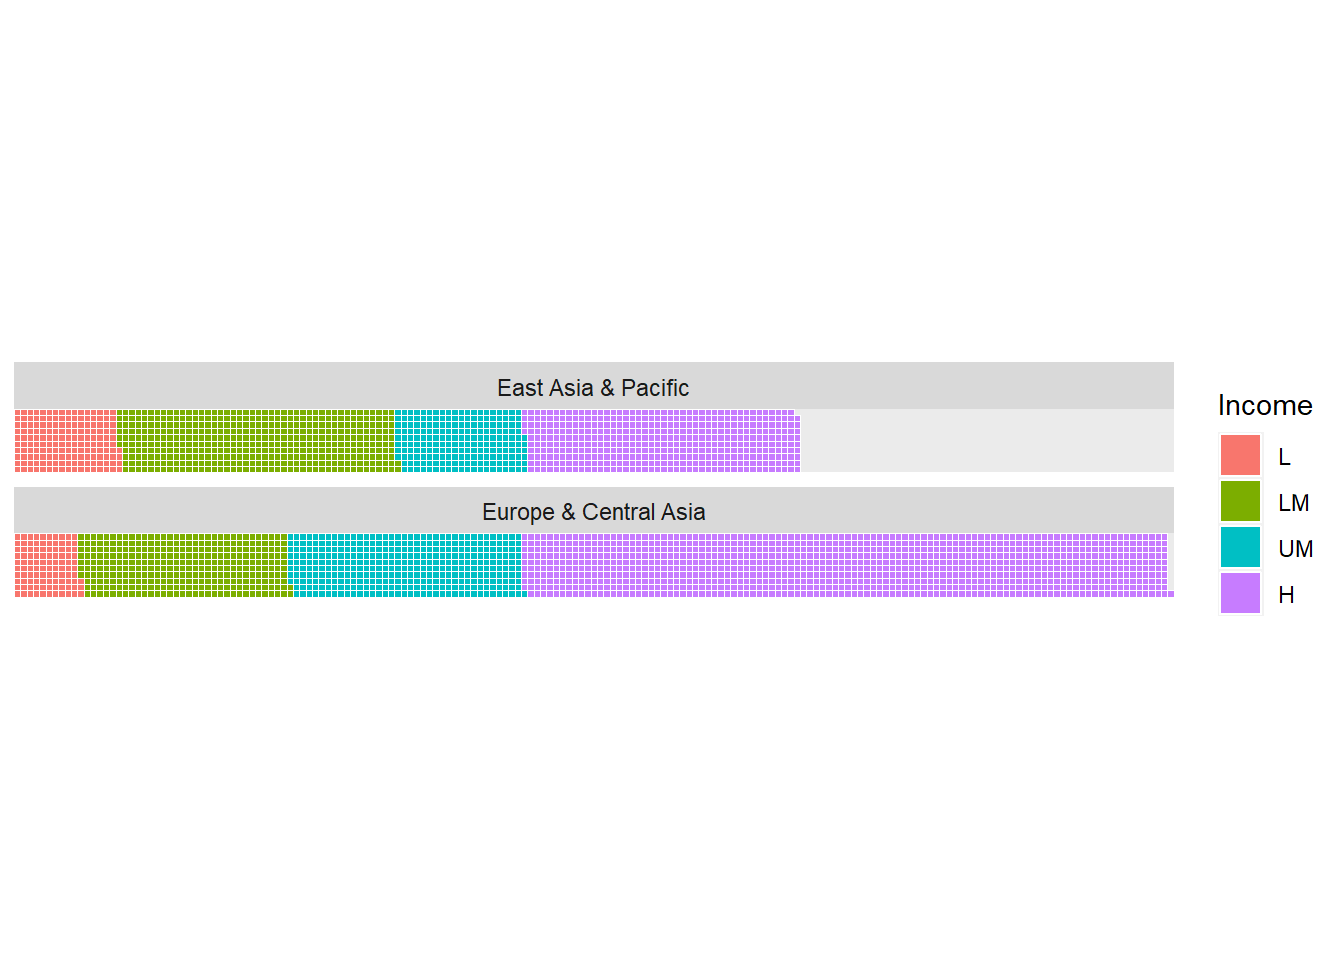
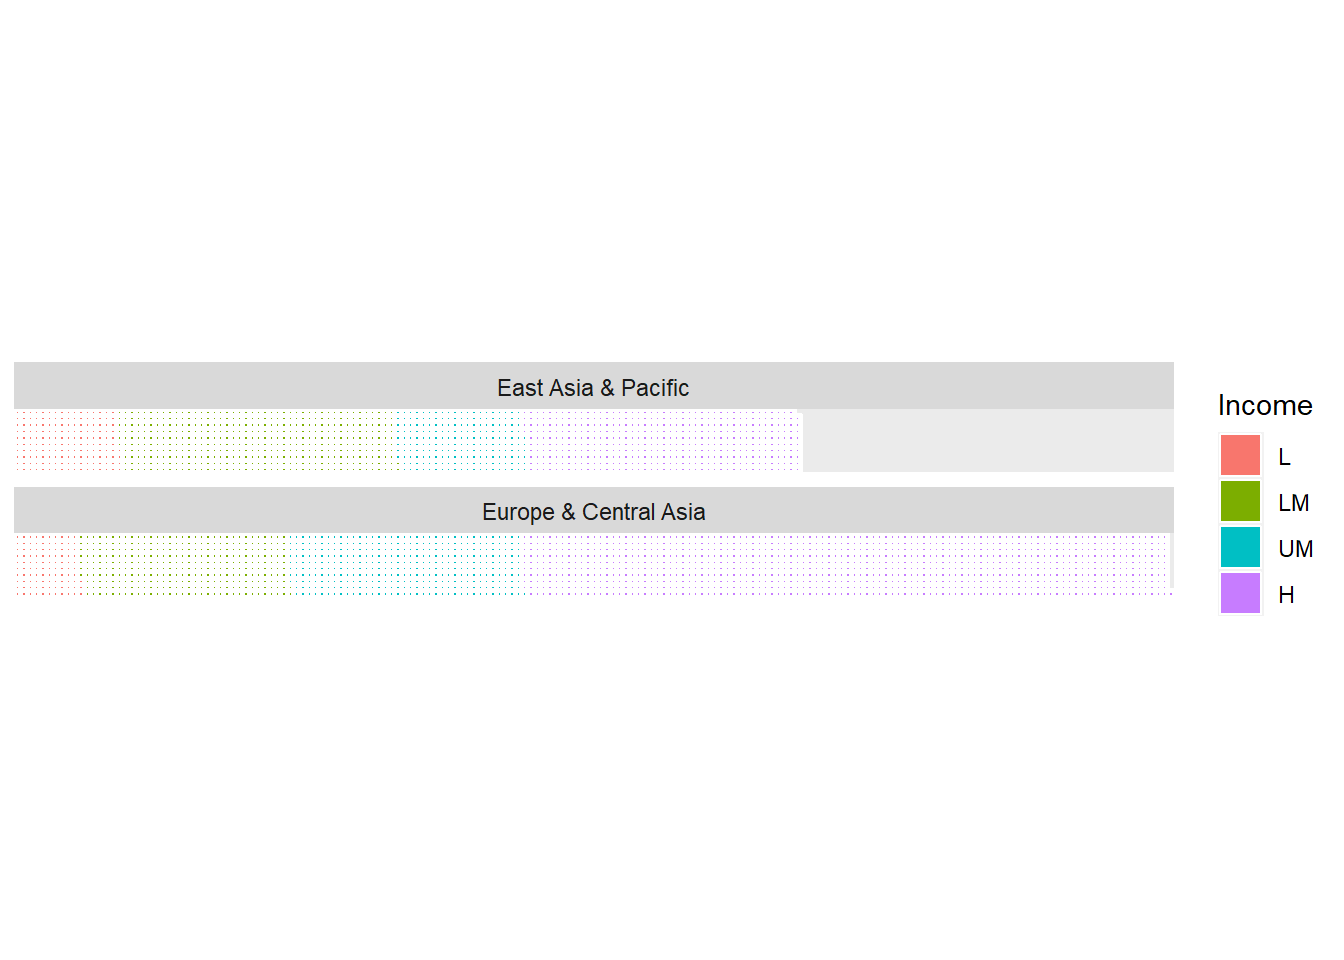
updated

Changed region(s): [[0.0, 0.5312, 0.875, 0.625], [0.0, 0.4062, 0.5938, 0.5]]

diff --git a/docs/x.html b/docs/x.html
@@ -7,7 +7,7 @@
 <meta name="viewport" content="width=device-width, initial-scale=1.0, user-scalable=yes">
 
 
-<title>Data Visualisation geom Encyclopedia - 26&nbsp; geom_a</title>
+<title>Data Visualisation geom Encyclopedia - 26&nbsp; geom_x</title>
 <style>
 code{white-space: pre-wrap;}
 span.smallcaps{font-variant: small-caps;}
@@ -19,6 +19,40 @@ ul.task-list li input[type="checkbox"] {
   width: 0.8em;
   margin: 0 0.8em 0.2em -1em; /* quarto-specific, see https://github.com/quarto-dev/quarto-cli/issues/4556 */ 
   vertical-align: middle;
+}
+/* CSS for syntax highlighting */
+pre > code.sourceCode { white-space: pre; position: relative; }
+pre > code.sourceCode > span { display: inline-block; line-height: 1.25; }
+pre > code.sourceCode > span:empty { height: 1.2em; }
+.sourceCode { overflow: visible; }
+code.sourceCode > span { color: inherit; text-decoration: inherit; }
+div.sourceCode { margin: 1em 0; }
+pre.sourceCode { margin: 0; }
+@media screen {
+div.sourceCode { overflow: auto; }
+}
+@media print {
+pre > code.sourceCode { white-space: pre-wrap; }
+pre > code.sourceCode > span { text-indent: -5em; padding-left: 5em; }
+}
+pre.numberSource code
+  { counter-reset: source-line 0; }
+pre.numberSource code > span
+  { position: relative; left: -4em; counter-increment: source-line; }
+pre.numberSource code > span > a:first-child::before
+  { content: counter(source-line);
+    position: relative; left: -1em; text-align: right; vertical-align: baseline;
+    border: none; display: inline-block;
+    -webkit-touch-callout: none; -webkit-user-select: none;
+    -khtml-user-select: none; -moz-user-select: none;
+    -ms-user-select: none; user-select: none;
+    padding: 0 4px; width: 4em;
+  }
+pre.numberSource { margin-left: 3em;  padding-left: 4px; }
+div.sourceCode
+  {   }
+@media screen {
+pre > code.sourceCode > span > a:first-child::before { text-decoration: underline; }
 }
 </style>
 
@@ -74,7 +108,7 @@ ul.task-list li input[type="checkbox"] {
       <button type="button" class="quarto-btn-toggle btn" data-bs-toggle="collapse" data-bs-target="#quarto-sidebar,#quarto-sidebar-glass" aria-controls="quarto-sidebar" aria-expanded="false" aria-label="Toggle sidebar navigation" onclick="if (window.quartoToggleHeadroom) { window.quartoToggleHeadroom(); }">
         <i class="bi bi-layout-text-sidebar-reverse"></i>
       </button>
-      <nav class="quarto-page-breadcrumbs" aria-label="breadcrumb"><ol class="breadcrumb"><li class="breadcrumb-item"><a href="./partx.html">X</a></li><li class="breadcrumb-item"><a href="./x.html"><span class="chapter-number">26</span>&nbsp; <span class="chapter-title">geom_a</span></a></li></ol></nav>
+      <nav class="quarto-page-breadcrumbs" aria-label="breadcrumb"><ol class="breadcrumb"><li class="breadcrumb-item"><a href="./partx.html">X</a></li><li class="breadcrumb-item"><a href="./x.html"><span class="chapter-number">26</span>&nbsp; <span class="chapter-title">geom_x</span></a></li></ol></nav>
       <a class="flex-grow-1" role="button" data-bs-toggle="collapse" data-bs-target="#quarto-sidebar,#quarto-sidebar-glass" aria-controls="quarto-sidebar" aria-expanded="false" aria-label="Toggle sidebar navigation" onclick="if (window.quartoToggleHeadroom) { window.quartoToggleHeadroom(); }">      
       </a>
       <button type="button" class="btn quarto-search-button" aria-label="" onclick="window.quartoOpenSearch();">
@@ -268,7 +302,7 @@ ul.task-list li input[type="checkbox"] {
           <li class="sidebar-item">
   <div class="sidebar-item-container"> 
   <a href="./i.html" class="sidebar-item-text sidebar-link">
- <span class="menu-text"><span class="chapter-number">11</span>&nbsp; <span class="chapter-title">geom_a</span></span></a>
+ <span class="menu-text"><span class="chapter-number">11</span>&nbsp; <span class="chapter-title">geom_i</span></span></a>
   </div>
 </li>
       </ul>
@@ -285,7 +319,7 @@ ul.task-list li input[type="checkbox"] {
           <li class="sidebar-item">
   <div class="sidebar-item-container"> 
   <a href="./j.html" class="sidebar-item-text sidebar-link">
- <span class="menu-text"><span class="chapter-number">12</span>&nbsp; <span class="chapter-title">geom_a</span></span></a>
+ <span class="menu-text"><span class="chapter-number">12</span>&nbsp; <span class="chapter-title">geom_j</span></span></a>
   </div>
 </li>
       </ul>
@@ -302,7 +336,7 @@ ul.task-list li input[type="checkbox"] {
           <li class="sidebar-item">
   <div class="sidebar-item-container"> 
   <a href="./k.html" class="sidebar-item-text sidebar-link">
- <span class="menu-text"><span class="chapter-number">13</span>&nbsp; <span class="chapter-title">geom_a</span></span></a>
+ <span class="menu-text"><span class="chapter-number">13</span>&nbsp; <span class="chapter-title">geom_k</span></span></a>
   </div>
 </li>
       </ul>
@@ -319,7 +353,7 @@ ul.task-list li input[type="checkbox"] {
           <li class="sidebar-item">
   <div class="sidebar-item-container"> 
   <a href="./l.html" class="sidebar-item-text sidebar-link">
- <span class="menu-text"><span class="chapter-number">14</span>&nbsp; <span class="chapter-title">geom_a</span></span></a>
+ <span class="menu-text"><span class="chapter-number">14</span>&nbsp; <span class="chapter-title">geom_l</span></span></a>
   </div>
 </li>
       </ul>
@@ -336,7 +370,7 @@ ul.task-list li input[type="checkbox"] {
           <li class="sidebar-item">
   <div class="sidebar-item-container"> 
   <a href="./m.html" class="sidebar-item-text sidebar-link">
- <span class="menu-text"><span class="chapter-number">15</span>&nbsp; <span class="chapter-title">geom_a</span></span></a>
+ <span class="menu-text"><span class="chapter-number">15</span>&nbsp; <span class="chapter-title">geom_m</span></span></a>
   </div>
 </li>
       </ul>
@@ -387,7 +421,7 @@ ul.task-list li input[type="checkbox"] {
           <li class="sidebar-item">
   <div class="sidebar-item-container"> 
   <a href="./p.html" class="sidebar-item-text sidebar-link">
- <span class="menu-text"><span class="chapter-number">18</span>&nbsp; <span class="chapter-title">geom_a</span></span></a>
+ <span class="menu-text"><span class="chapter-number">18</span>&nbsp; <span class="chapter-title">geom_p</span></span></a>
   </div>
 </li>
       </ul>
@@ -523,7 +557,7 @@ ul.task-list li input[type="checkbox"] {
           <li class="sidebar-item">
   <div class="sidebar-item-container"> 
   <a href="./x.html" class="sidebar-item-text sidebar-link active">
- <span class="menu-text"><span class="chapter-number">26</span>&nbsp; <span class="chapter-title">geom_a</span></span></a>
+ <span class="menu-text"><span class="chapter-number">26</span>&nbsp; <span class="chapter-title">geom_x</span></span></a>
   </div>
 </li>
       </ul>
@@ -584,7 +618,15 @@ ul.task-list li input[type="checkbox"] {
     <h2 id="toc-title">Table of contents</h2>
    
   <ul>
-  <li><a href="#geom_abline" id="toc-geom_abline" class="nav-link active" data-scroll-target="#geom_abline"><span class="header-section-number">26.1</span> geom_abline</a></li>
+  <li><a href="#geom_xy_means" id="toc-geom_xy_means" class="nav-link active" data-scroll-target="#geom_xy_means"><span class="header-section-number">26.1</span> geom_xy_means</a>
+  <ul class="collapse">
+  <li><a href="#package" id="toc-package" class="nav-link" data-scroll-target="#package"><span class="header-section-number">26.1.1</span> Package</a></li>
+  <li><a href="#description" id="toc-description" class="nav-link" data-scroll-target="#description"><span class="header-section-number">26.1.2</span> Description</a></li>
+  <li><a href="#understandable-aesthetics" id="toc-understandable-aesthetics" class="nav-link" data-scroll-target="#understandable-aesthetics"><span class="header-section-number">26.1.3</span> Understandable aesthetics</a></li>
+  <li><a href="#the-statistical-transformation-to-use-on-the-data-for-this-layer" id="toc-the-statistical-transformation-to-use-on-the-data-for-this-layer" class="nav-link" data-scroll-target="#the-statistical-transformation-to-use-on-the-data-for-this-layer"><span class="header-section-number">26.1.4</span> The statistical transformation to use on the data for this layer</a></li>
+  <li><a href="#see-also" id="toc-see-also" class="nav-link" data-scroll-target="#see-also"><span class="header-section-number">26.1.5</span> See also</a></li>
+  <li><a href="#example" id="toc-example" class="nav-link" data-scroll-target="#example"><span class="header-section-number">26.1.6</span> Example</a></li>
+  </ul></li>
   </ul>
 <div class="toc-actions"><div><i class="bi bi-github"></i></div><div class="action-links"><p><a href="https://github.com/thiyangt/geom.encyclopedia/edit/main/x.qmd" class="toc-action">Edit this page</a></p><p><a href="https://github.com/thiyangt/geom.encyclopedia/issues/new" class="toc-action">Report an issue</a></p></div></div></nav>
     </div>
@@ -593,7 +635,7 @@ ul.task-list li input[type="checkbox"] {
 
 <header id="title-block-header" class="quarto-title-block default">
 <div class="quarto-title">
-<h1 class="title"><span id="sec-a" class="quarto-section-identifier"><span class="chapter-number">26</span>&nbsp; <span class="chapter-title">geom_a</span></span></h1>
+<h1 class="title"><span id="sec-x" class="quarto-section-identifier"><span class="chapter-number">26</span>&nbsp; <span class="chapter-title">geom_x</span></span></h1>
 </div>
 
 
@@ -608,10 +650,55 @@ ul.task-list li input[type="checkbox"] {
 
 </header>
 
-<section id="geom_abline" class="level2" data-number="26.1">
-<h2 data-number="26.1" class="anchored" data-anchor-id="geom_abline"><span class="header-section-number">26.1</span> geom_abline</h2>
+<section id="geom_xy_means" class="level2" data-number="26.1">
+<h2 data-number="26.1" class="anchored" data-anchor-id="geom_xy_means"><span class="header-section-number">26.1</span> geom_xy_means</h2>
+<section id="package" class="level3" data-number="26.1.1">
+<h3 data-number="26.1.1" class="anchored" data-anchor-id="package"><span class="header-section-number">26.1.1</span> Package</h3>
+<div class="cell">
+<div class="sourceCode cell-code" id="cb1"><pre class="sourceCode r code-with-copy"><code class="sourceCode r"><span id="cb1-1"><a href="#cb1-1" aria-hidden="true" tabindex="-1"></a><span class="co"># install.packages("devtools")</span></span>
+<span id="cb1-2"><a href="#cb1-2" aria-hidden="true" tabindex="-1"></a><span class="co">#devtools::install_github("EvaMaeRey/ggxmean")</span></span></code><button title="Copy to Clipboard" class="code-copy-button"><i class="bi"></i></button></pre></div>
+</div>
+<p>ggxmean <span class="citation" data-cites="ggxmean">(<a href="references.html#ref-ggxmean" role="doc-biblioref"><strong>ggxmean?</strong></a>)</span></p>
+</section>
+<section id="description" class="level3" data-number="26.1.2">
+<h3 data-number="26.1.2" class="anchored" data-anchor-id="description"><span class="header-section-number">26.1.2</span> Description</h3>
+<p>Place point at mean of x and mean of y</p>
+</section>
+<section id="understandable-aesthetics" class="level3" data-number="26.1.3">
+<h3 data-number="26.1.3" class="anchored" data-anchor-id="understandable-aesthetics"><span class="header-section-number">26.1.3</span> Understandable aesthetics</h3>
+<p><strong>required aesthetics</strong></p>
+<p><code>x</code>, <code>y</code></p>
+</section>
+<section id="the-statistical-transformation-to-use-on-the-data-for-this-layer" class="level3" data-number="26.1.4">
+<h3 data-number="26.1.4" class="anchored" data-anchor-id="the-statistical-transformation-to-use-on-the-data-for-this-layer"><span class="header-section-number">26.1.4</span> The statistical transformation to use on the data for this layer</h3>
+</section>
+<section id="see-also" class="level3" data-number="26.1.5">
+<h3 data-number="26.1.5" class="anchored" data-anchor-id="see-also"><span class="header-section-number">26.1.5</span> See also</h3>
+<p><a href="#point">geom_point</a></p>
+</section>
+<section id="example" class="level3" data-number="26.1.6">
+<h3 data-number="26.1.6" class="anchored" data-anchor-id="example"><span class="header-section-number">26.1.6</span> Example</h3>
+<div class="cell">
+<div class="sourceCode cell-code" id="cb2"><pre class="sourceCode r code-with-copy"><code class="sourceCode r"><span id="cb2-1"><a href="#cb2-1" aria-hidden="true" tabindex="-1"></a><span class="fu">library</span>(ggxmean)</span>
+<span id="cb2-2"><a href="#cb2-2" aria-hidden="true" tabindex="-1"></a>a1 <span class="ot">&lt;-</span> worldbankdata <span class="sc">|&gt;</span></span>
+<span id="cb2-3"><a href="#cb2-3" aria-hidden="true" tabindex="-1"></a>  <span class="fu">ggplot</span>(<span class="fu">aes</span>(<span class="at">x =</span> Income, <span class="at">y =</span> Cooking)) <span class="sc">+</span> </span>
+<span id="cb2-4"><a href="#cb2-4" aria-hidden="true" tabindex="-1"></a>  <span class="fu">geom_xy_means</span>(<span class="at">na.rm=</span><span class="cn">TRUE</span>) <span class="sc">+</span> <span class="fu">ggtitle</span>(<span class="st">"a1: geom_xy_means only"</span>)</span>
+<span id="cb2-5"><a href="#cb2-5" aria-hidden="true" tabindex="-1"></a>a2 <span class="ot">&lt;-</span> worldbankdata <span class="sc">|&gt;</span></span>
+<span id="cb2-6"><a href="#cb2-6" aria-hidden="true" tabindex="-1"></a>  <span class="fu">ggplot</span>(<span class="fu">aes</span>(<span class="at">x =</span> Income, <span class="at">y =</span> Cooking)) <span class="sc">+</span> </span>
+<span id="cb2-7"><a href="#cb2-7" aria-hidden="true" tabindex="-1"></a>  <span class="fu">geom_point</span>(<span class="at">alpha=</span><span class="fl">0.5</span>) <span class="sc">+</span></span>
+<span id="cb2-8"><a href="#cb2-8" aria-hidden="true" tabindex="-1"></a>  <span class="fu">geom_xy_means</span>(<span class="at">na.rm=</span><span class="cn">TRUE</span>, <span class="at">col=</span><span class="st">"red"</span>) <span class="sc">+</span> </span>
+<span id="cb2-9"><a href="#cb2-9" aria-hidden="true" tabindex="-1"></a>  <span class="fu">ggtitle</span>(<span class="st">"a2: geom_points and geom_xy_means"</span>)</span>
+<span id="cb2-10"><a href="#cb2-10" aria-hidden="true" tabindex="-1"></a>a1<span class="sc">|</span>a2</span></code><button title="Copy to Clipboard" class="code-copy-button"><i class="bi"></i></button></pre></div>
+<div class="cell-output cell-output-stderr">
+<pre><code>Warning: Removed 6047 rows containing missing values (`geom_point()`).</code></pre>
+</div>
+<div class="cell-output-display">
+<p><img src="x_files/figure-html/unnamed-chunk-3-1.png" class="img-fluid" width="672"></p>
+</div>
+</div>
 
 
+</section>
 </section>
 
 </main> <!-- /main -->

diff --git a/docs/w.html b/docs/w.html
@@ -707,7 +707,7 @@ div.csl-indent {
 <span id="cb2-5"><a href="#cb2-5" aria-hidden="true" tabindex="-1"></a>  <span class="fu">group_by</span>(Region, Income) <span class="sc">|&gt;</span></span>
 <span id="cb2-6"><a href="#cb2-6" aria-hidden="true" tabindex="-1"></a>  <span class="fu">tally</span>() <span class="sc">|&gt;</span></span>
 <span id="cb2-7"><a href="#cb2-7" aria-hidden="true" tabindex="-1"></a>  <span class="fu">ggplot</span>(<span class="fu">aes</span>(<span class="at">fill=</span>Income, <span class="at">values=</span>n)) <span class="sc">+</span></span>
-<span id="cb2-8"><a href="#cb2-8" aria-hidden="true" tabindex="-1"></a>  <span class="fu">geom_waffle</span>(<span class="at">color =</span> <span class="st">"white"</span>) <span class="sc">+</span></span>
+<span id="cb2-8"><a href="#cb2-8" aria-hidden="true" tabindex="-1"></a>  <span class="fu">geom_waffle</span>(<span class="at">color =</span> <span class="st">"white"</span>, <span class="at">size=</span><span class="dv">1</span>) <span class="sc">+</span></span>
 <span id="cb2-9"><a href="#cb2-9" aria-hidden="true" tabindex="-1"></a>  <span class="fu">facet_wrap</span>(<span class="sc">~</span>Region, <span class="at">ncol=</span><span class="dv">1</span>) <span class="sc">+</span></span>
 <span id="cb2-10"><a href="#cb2-10" aria-hidden="true" tabindex="-1"></a>  <span class="fu">scale_x_discrete</span>(<span class="at">expand=</span><span class="fu">c</span>(<span class="dv">0</span>,<span class="dv">0</span>)) <span class="sc">+</span></span>
 <span id="cb2-11"><a href="#cb2-11" aria-hidden="true" tabindex="-1"></a>  <span class="fu">scale_y_discrete</span>(<span class="at">expand=</span><span class="fu">c</span>(<span class="dv">0</span>,<span class="dv">0</span>)) <span class="sc">+</span></span>

diff --git a/docs/index.html b/docs/index.html
@@ -523,7 +523,7 @@ ul.task-list li input[type="checkbox"] {
           <li class="sidebar-item">
   <div class="sidebar-item-container"> 
   <a href="./x.html" class="sidebar-item-text sidebar-link">
- <span class="menu-text"><span class="chapter-number">26</span>&nbsp; <span class="chapter-title">geom_a</span></span></a>
+ <span class="menu-text"><span class="chapter-number">26</span>&nbsp; <span class="chapter-title">geom_x</span></span></a>
   </div>
 </li>
       </ul>
